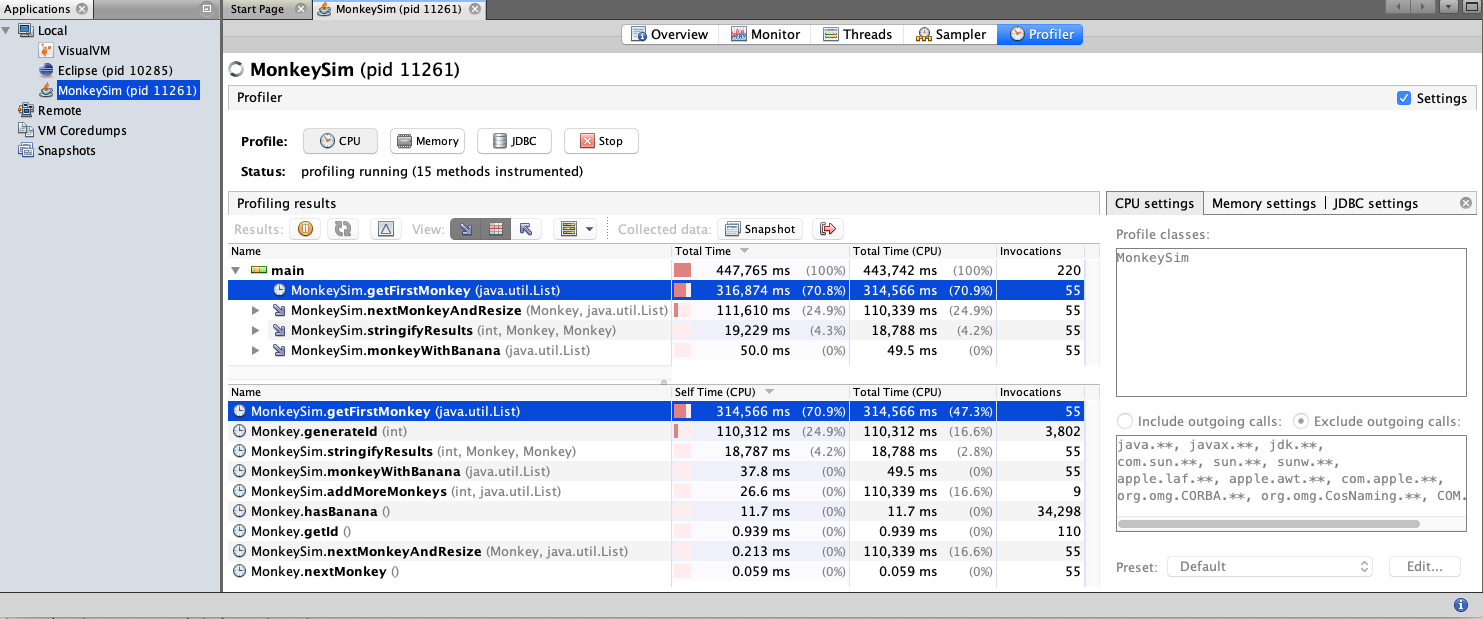
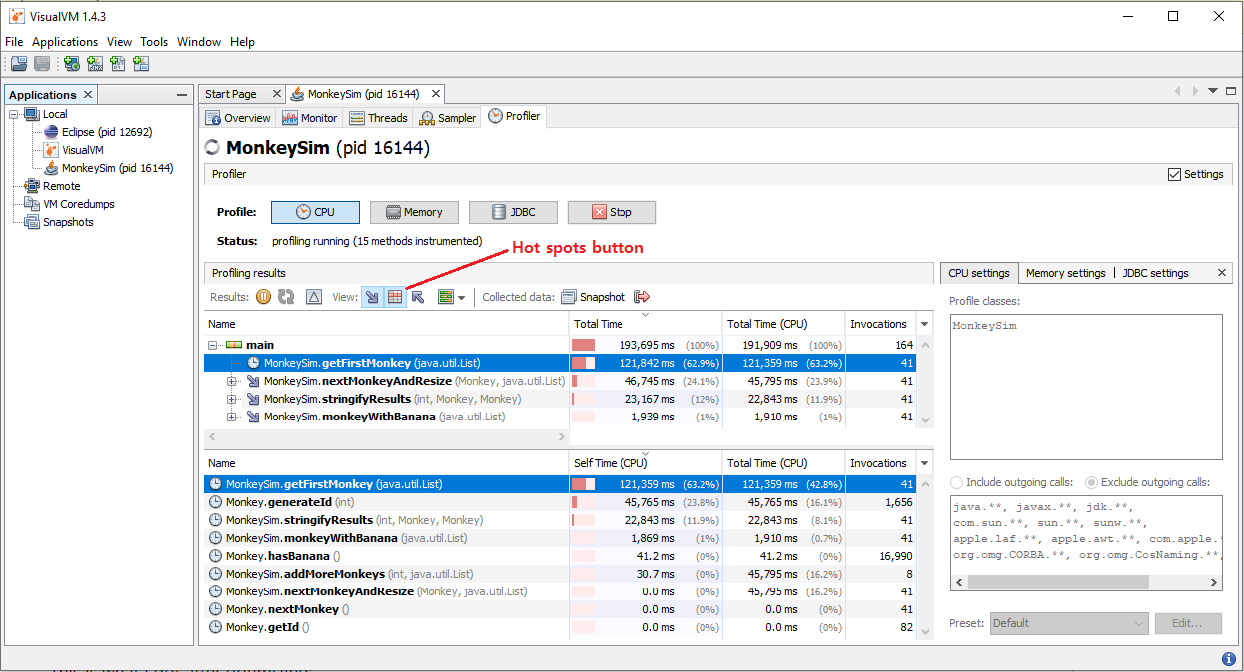
Updates

diff --git a/exercises/4/src/MonkeySim.java b/exercises/4/src/MonkeySim.java
@@ -116,7 +116,7 @@ public class MonkeySim {
 			Monkey m = ml.get(j);
 			if (m.hasBanana()) {
 				int k = 0;
-				int bar = 100;
+				int bar = 10000;
 				while (k++ < (bar * bar)) {
 					if (m.getMonkeyNum() == k) {
 						bar -= Math.round(Math.sqrt(bar));
